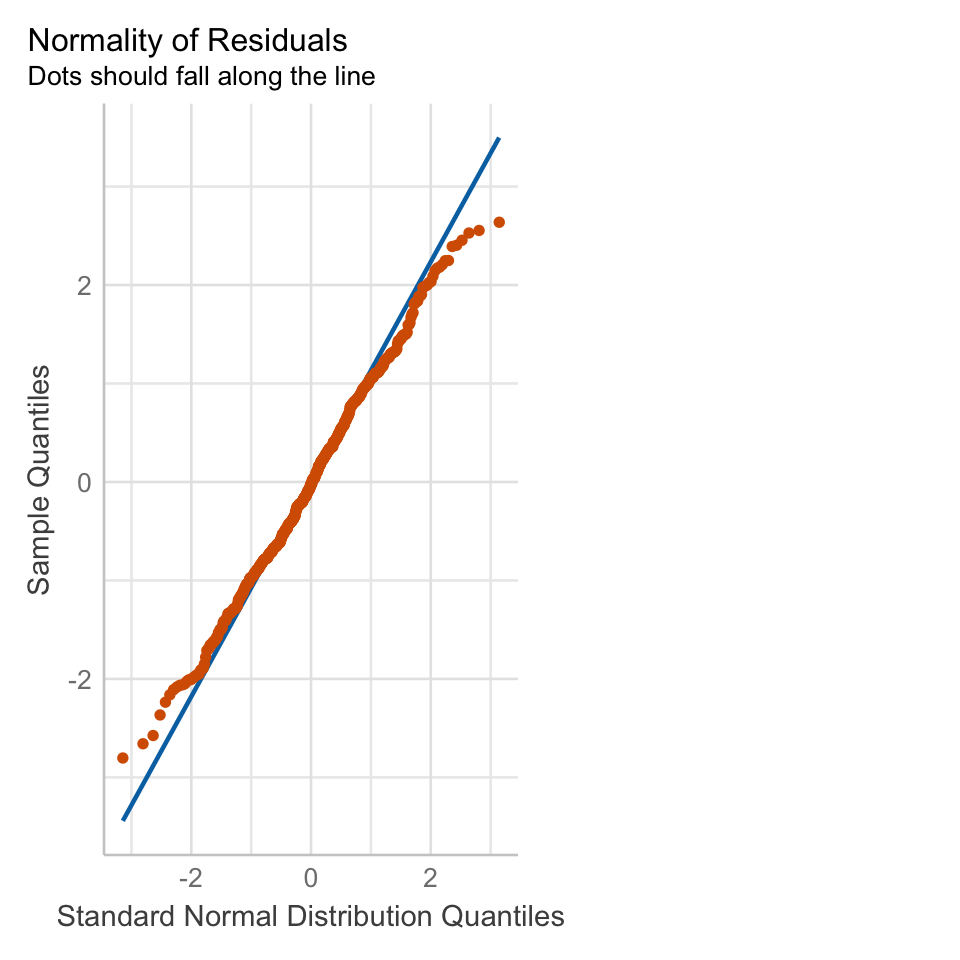
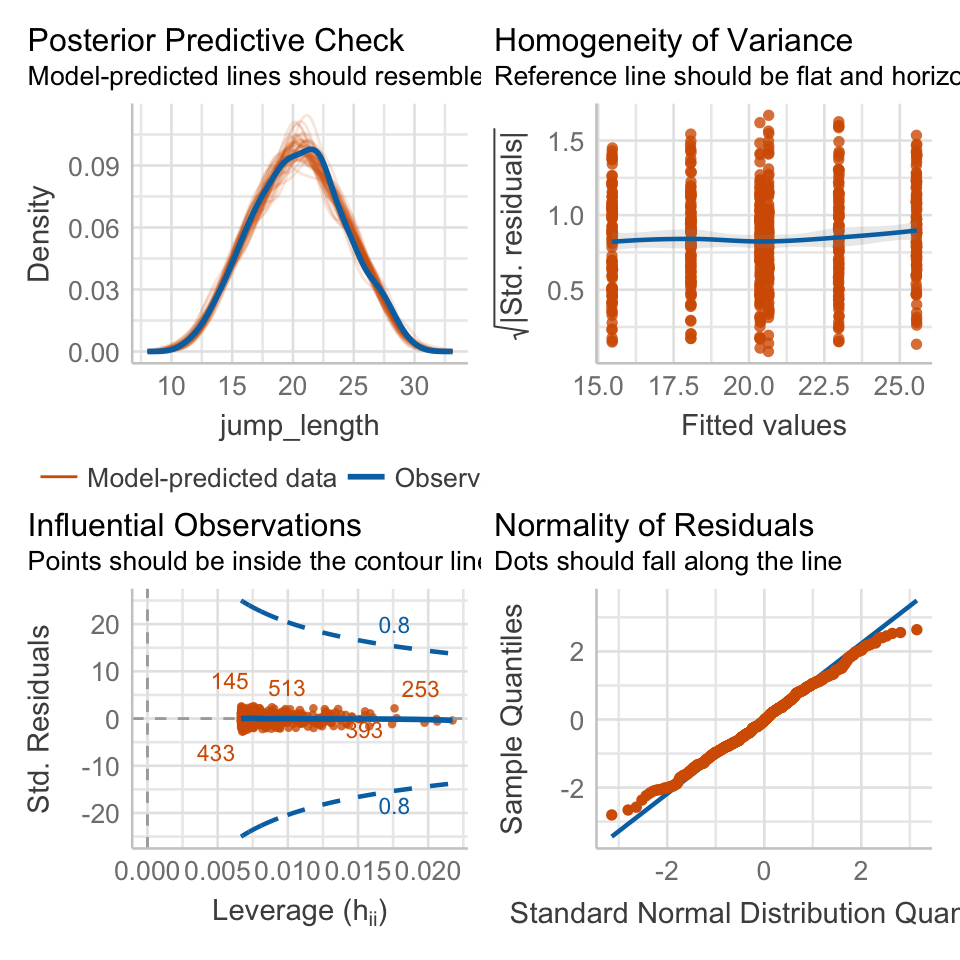
some polish

diff --git a/docs/stat-modeling-gaussian.html b/docs/stat-modeling-gaussian.html
@@ -464,7 +464,7 @@ code span.wa { color: #60a0b0; font-weight: bold; font-style: italic; } /* Warni
   </ul></nav>
     </div>
 <!-- main -->
-<main class="content page-columns page-full" id="quarto-document-content"><header id="title-block-header" class="quarto-title-block default"><div class="quarto-title">
+<main class="content" id="quarto-document-content"><header id="title-block-header" class="quarto-title-block default"><div class="quarto-title">
 <h1 class="title d-none d-lg-block">
 <span class="chapter-number">37</span>&nbsp; <span class="chapter-title">Gaussian lineare Regression</span>
 </h1>
@@ -482,7 +482,7 @@ code span.wa { color: #60a0b0; font-weight: bold; font-style: italic; } /* Warni
 </header><div class="cell">
 
 </div>
-<p><em>Version vom September 15, 2022 um 21:03:51</em></p>
+<p><em>Version vom September 15, 2022 um 21:25:47</em></p>
 <div class="quarto-figure quarto-figure-center">
 <figure class="figure"><p><img src="images/caution.png" class="img-fluid figure-img" style="width:50.0%"></p>
 </figure>
@@ -492,7 +492,7 @@ code span.wa { color: #60a0b0; font-weight: bold; font-style: italic; } /* Warni
 <p>Wir wollen folgende R Pakete in diesem Kapitel nutzen.</p>
 <div class="cell">
 <div class="sourceCode" id="cb1"><pre class="downlit sourceCode r code-with-copy"><code class="sourceCode R"><span><span class="fu">pacman</span><span class="fu">::</span><span class="fu"><a href="https://rdrr.io/pkg/pacman/man/p_load.html">p_load</a></span><span class="op">(</span><span class="va">tidyverse</span>, <span class="va">magrittr</span>, <span class="va">conflicted</span>, <span class="va">broom</span>,</span>
-<span>               <span class="va">see</span>, <span class="va">performance</span>, <span class="va">emmeans</span>, <span class="va">multcomp</span><span class="op">)</span></span>
+<span>               <span class="va">see</span>, <span class="va">performance</span>, <span class="va">emmeans</span>, <span class="va">multcomp</span>, <span class="va">scales</span><span class="op">)</span></span>
 <span><span class="fu">conflict_prefer</span><span class="op">(</span><span class="st">"select"</span>, <span class="st">"dplyr"</span><span class="op">)</span></span>
 <span><span class="fu">conflict_prefer</span><span class="op">(</span><span class="st">"filter"</span>, <span class="st">"dplyr"</span><span class="op">)</span></span>
 <span><span class="fu">conflict_prefer</span><span class="op">(</span><span class="st">"mutate"</span>, <span class="st">"dplyr"</span><span class="op">)</span></span>
@@ -637,7 +637,7 @@ code span.wa { color: #60a0b0; font-weight: bold; font-style: italic; } /* Warni
 <div class="cell">
 <div class="sourceCode" id="cb3"><pre class="downlit sourceCode r code-with-copy"><code class="sourceCode R"><span><span class="va">gaussian_fit</span> <span class="op">&lt;-</span> <span class="fu"><a href="https://rdrr.io/r/stats/lm.html">lm</a></span><span class="op">(</span><span class="va">jump_length</span> <span class="op">~</span> <span class="va">animal</span> <span class="op">+</span> <span class="va">sex</span> <span class="op">+</span> <span class="va">weight</span>, data <span class="op">=</span> <span class="va">gaussian_tbl</span><span class="op">)</span></span></code><button title="In die Zwischenablage kopieren" class="code-copy-button"><i class="bi"></i></button></pre></div>
 </div>
-</section><section id="performance-des-modells" class="level2 page-columns page-full" data-number="37.4"><h2 data-number="37.4" class="anchored" data-anchor-id="performance-des-modells">
+</section><section id="performance-des-modells" class="level2" data-number="37.4"><h2 data-number="37.4" class="anchored" data-anchor-id="performance-des-modells">
 <span class="header-section-number">37.4</span> Performance des Modells</h2>
 <div class="cell">
 <div class="sourceCode" id="cb4"><pre class="downlit sourceCode r code-with-copy"><code class="sourceCode R"><span><span class="fu">r2</span><span class="op">(</span><span class="va">gaussian_fit</span><span class="op">)</span></span></code><button title="In die Zwischenablage kopieren" class="code-copy-button"><i class="bi"></i></button></pre></div>
@@ -653,38 +653,14 @@ code span.wa { color: #60a0b0; font-weight: bold; font-style: italic; } /* Warni
 <pre><code>OK: Error variance appears to be homoscedastic (p = 0.186).</code></pre>
 </div>
 </div>
-<div class="page-columns page-full">
-<div class="sourceCode" id="cb8"><pre class="downlit sourceCode r code-with-copy"><code class="sourceCode R"><span><span class="fu">check_model</span><span class="op">(</span><span class="va">gaussian_fit</span>, colors <span class="op">=</span> <span class="va">cbbPalette</span><span class="op">[</span><span class="fl">6</span><span class="op">:</span><span class="fl">8</span><span class="op">]</span>, check <span class="op">=</span> <span class="st">"qq"</span><span class="op">)</span></span>
-<span></span>
-<span><span class="fu">check_model</span><span class="op">(</span><span class="va">gaussian_fit</span>, colors <span class="op">=</span> <span class="va">cbbPalette</span><span class="op">[</span><span class="fl">6</span><span class="op">:</span><span class="fl">8</span><span class="op">]</span>, check <span class="op">=</span> <span class="st">"outliers"</span><span class="op">)</span></span>
-<span></span>
-<span><span class="fu">check_model</span><span class="op">(</span><span class="va">gaussian_fit</span>, colors <span class="op">=</span> <span class="va">cbbPalette</span><span class="op">[</span><span class="fl">6</span><span class="op">:</span><span class="fl">8</span><span class="op">]</span>, check <span class="op">=</span> <span class="st">"pp_check"</span><span class="op">)</span></span></code><button title="In die Zwischenablage kopieren" class="code-copy-button"><i class="bi"></i></button></pre></div>
-<div id="fig-normal-model-check" class="cell column-page quarto-layout-panel">
-<figure class="figure"><div class="quarto-layout-row quarto-layout-valign-top">
-<div class="cell-output-display quarto-layout-cell quarto-layout-cell-subref" style="flex-basis: 33.3%;justify-content: center;">
-<div id="fig-normal-model-check-1" class="quarto-figure quarto-figure-center anchored">
-<figure class="figure"><p><img src="stat-modeling-gaussian_files/figure-html/fig-normal-model-check-1.png" class="img-fluid figure-img" data-ref-parent="fig-normal-model-check" width="480"></p>
-<p></p><figcaption aria-hidden="true" class="figure-caption">(a) Normalverteilung der Residuen</figcaption><p></p>
+<div class="cell" data-layout-align="center">
+<div class="sourceCode" id="cb8"><pre class="downlit sourceCode r code-with-copy"><code class="sourceCode R"><span><span class="fu">check_model</span><span class="op">(</span><span class="va">gaussian_fit</span>, colors <span class="op">=</span> <span class="va">cbbPalette</span><span class="op">[</span><span class="fl">6</span><span class="op">:</span><span class="fl">8</span><span class="op">]</span>, check <span class="op">=</span> <span class="fu"><a href="https://rdrr.io/r/base/c.html">c</a></span><span class="op">(</span><span class="st">"qq"</span>, <span class="st">"outliers"</span>, <span class="st">"pp_check"</span>, <span class="st">"homogeneity"</span><span class="op">)</span><span class="op">)</span> </span></code><button title="In die Zwischenablage kopieren" class="code-copy-button"><i class="bi"></i></button></pre></div>
+<div class="cell-output-display">
+<div id="fig-normal-model-check" class="quarto-figure quarto-figure-center anchored">
+<figure class="figure"><p><img src="stat-modeling-gaussian_files/figure-html/fig-normal-model-check-1.png" class="img-fluid figure-img" width="480"></p>
+<p></p><figcaption aria-hidden="true" class="figure-caption">Abbildung 37.1— Ausgabe ausgewählter Modelgüteplots der Funktion <code>check_model()</code>.</figcaption><p></p>
 </figure>
 </div>
-</div>
-<div class="cell-output-display quarto-layout-cell quarto-layout-cell-subref" style="flex-basis: 33.3%;justify-content: center;">
-<div id="fig-normal-model-check-2" class="quarto-figure quarto-figure-center anchored">
-<figure class="figure"><p><img src="stat-modeling-gaussian_files/figure-html/fig-normal-model-check-2.png" class="img-fluid figure-img" data-ref-parent="fig-normal-model-check" width="480"></p>
-<p></p><figcaption aria-hidden="true" class="figure-caption">(b) Mögliche Ausreißer</figcaption><p></p>
-</figure>
-</div>
-</div>
-<div class="cell-output-display quarto-layout-cell quarto-layout-cell-subref" style="flex-basis: 33.3%;justify-content: center;">
-<div id="fig-normal-model-check-3" class="quarto-figure quarto-figure-center anchored">
-<figure class="figure"><p><img src="stat-modeling-gaussian_files/figure-html/fig-normal-model-check-3.png" class="img-fluid figure-img" data-ref-parent="fig-normal-model-check" width="480"></p>
-<p></p><figcaption aria-hidden="true" class="figure-caption">(c) Normalverteilung der vorhergesagten Werte</figcaption><p></p>
-</figure>
-</div>
-</div>
-</div>
-<p></p><figcaption aria-hidden="true" class="figure-caption">Abbildung 37.1— Ausgabe ausgwählter Modelgüteplots der Funktion <code>check_model()</code>.</figcaption><p></p>
-</figure>
 </div>
 </div>
 </section><section id="interpretation-des-modells" class="level2" data-number="37.5"><h2 data-number="37.5" class="anchored" data-anchor-id="interpretation-des-modells">
@@ -714,14 +690,15 @@ code span.wa { color: #60a0b0; font-weight: bold; font-style: italic; } /* Warni
 <span>  <span class="fu">contrast</span><span class="op">(</span>method <span class="op">=</span> <span class="st">"pairwise"</span><span class="op">)</span>  <span class="op">%&gt;%</span> </span>
 <span>  <span class="fu">tidy</span><span class="op">(</span>conf.int <span class="op">=</span> <span class="cn">TRUE</span><span class="op">)</span> <span class="op">%&gt;%</span> </span>
 <span>  <span class="fu">select</span><span class="op">(</span><span class="va">contrast</span>, <span class="va">estimate</span>, <span class="va">adj.p.value</span>, <span class="va">conf.low</span>, <span class="va">conf.high</span><span class="op">)</span> <span class="op">%&gt;%</span> </span>
-<span>  <span class="fu">mutate</span><span class="op">(</span><span class="fu">across</span><span class="op">(</span><span class="fu">where</span><span class="op">(</span><span class="va">is.numeric</span><span class="op">)</span>, <span class="va">round</span>, <span class="fl">4</span><span class="op">)</span><span class="op">)</span></span></code><button title="In die Zwischenablage kopieren" class="code-copy-button"><i class="bi"></i></button></pre></div>
+<span>  <span class="fu">mutate</span><span class="op">(</span><span class="fu">across</span><span class="op">(</span><span class="fu">where</span><span class="op">(</span><span class="va">is.numeric</span><span class="op">)</span>, <span class="va">round</span>, <span class="fl">4</span><span class="op">)</span><span class="op">)</span> <span class="op">%&gt;%</span> </span>
+<span>  <span class="fu">mutate</span><span class="op">(</span>adj.p.value <span class="op">=</span> <span class="fu">pvalue</span><span class="op">(</span><span class="va">adj.p.value</span><span class="op">)</span><span class="op">)</span></span></code><button title="In die Zwischenablage kopieren" class="code-copy-button"><i class="bi"></i></button></pre></div>
 <div class="cell-output cell-output-stdout">
 <pre><code># A tibble: 3 × 5
   contrast  estimate adj.p.value conf.low conf.high
-  &lt;chr&gt;        &lt;dbl&gt;       &lt;dbl&gt;    &lt;dbl&gt;     &lt;dbl&gt;
-1 cat - dog    -2.61           0    -3.07     -2.16
-2 cat - fox    -5.19           0    -5.64     -4.73
-3 dog - fox    -2.58           0    -3.03     -2.12</code></pre>
+  &lt;chr&gt;        &lt;dbl&gt; &lt;chr&gt;          &lt;dbl&gt;     &lt;dbl&gt;
+1 cat - dog    -2.61 &lt;0.001         -3.07     -2.16
+2 cat - fox    -5.19 &lt;0.001         -5.64     -4.73
+3 dog - fox    -2.58 &lt;0.001         -3.03     -2.12</code></pre>
 </div>
 <div class="sourceCode" id="cb13"><pre class="downlit sourceCode r code-with-copy"><code class="sourceCode R"><span><span class="va">emmean_res</span> <span class="op">%&gt;%</span> </span>
 <span>  <span class="fu">cld</span><span class="op">(</span>adjust <span class="op">=</span> <span class="st">"tukey"</span>, Letters<span class="op">=</span><span class="va">letters</span>, details <span class="op">=</span> <span class="cn">TRUE</span><span class="op">)</span></span></code><button title="In die Zwischenablage kopieren" class="code-copy-button"><i class="bi"></i></button></pre></div>
